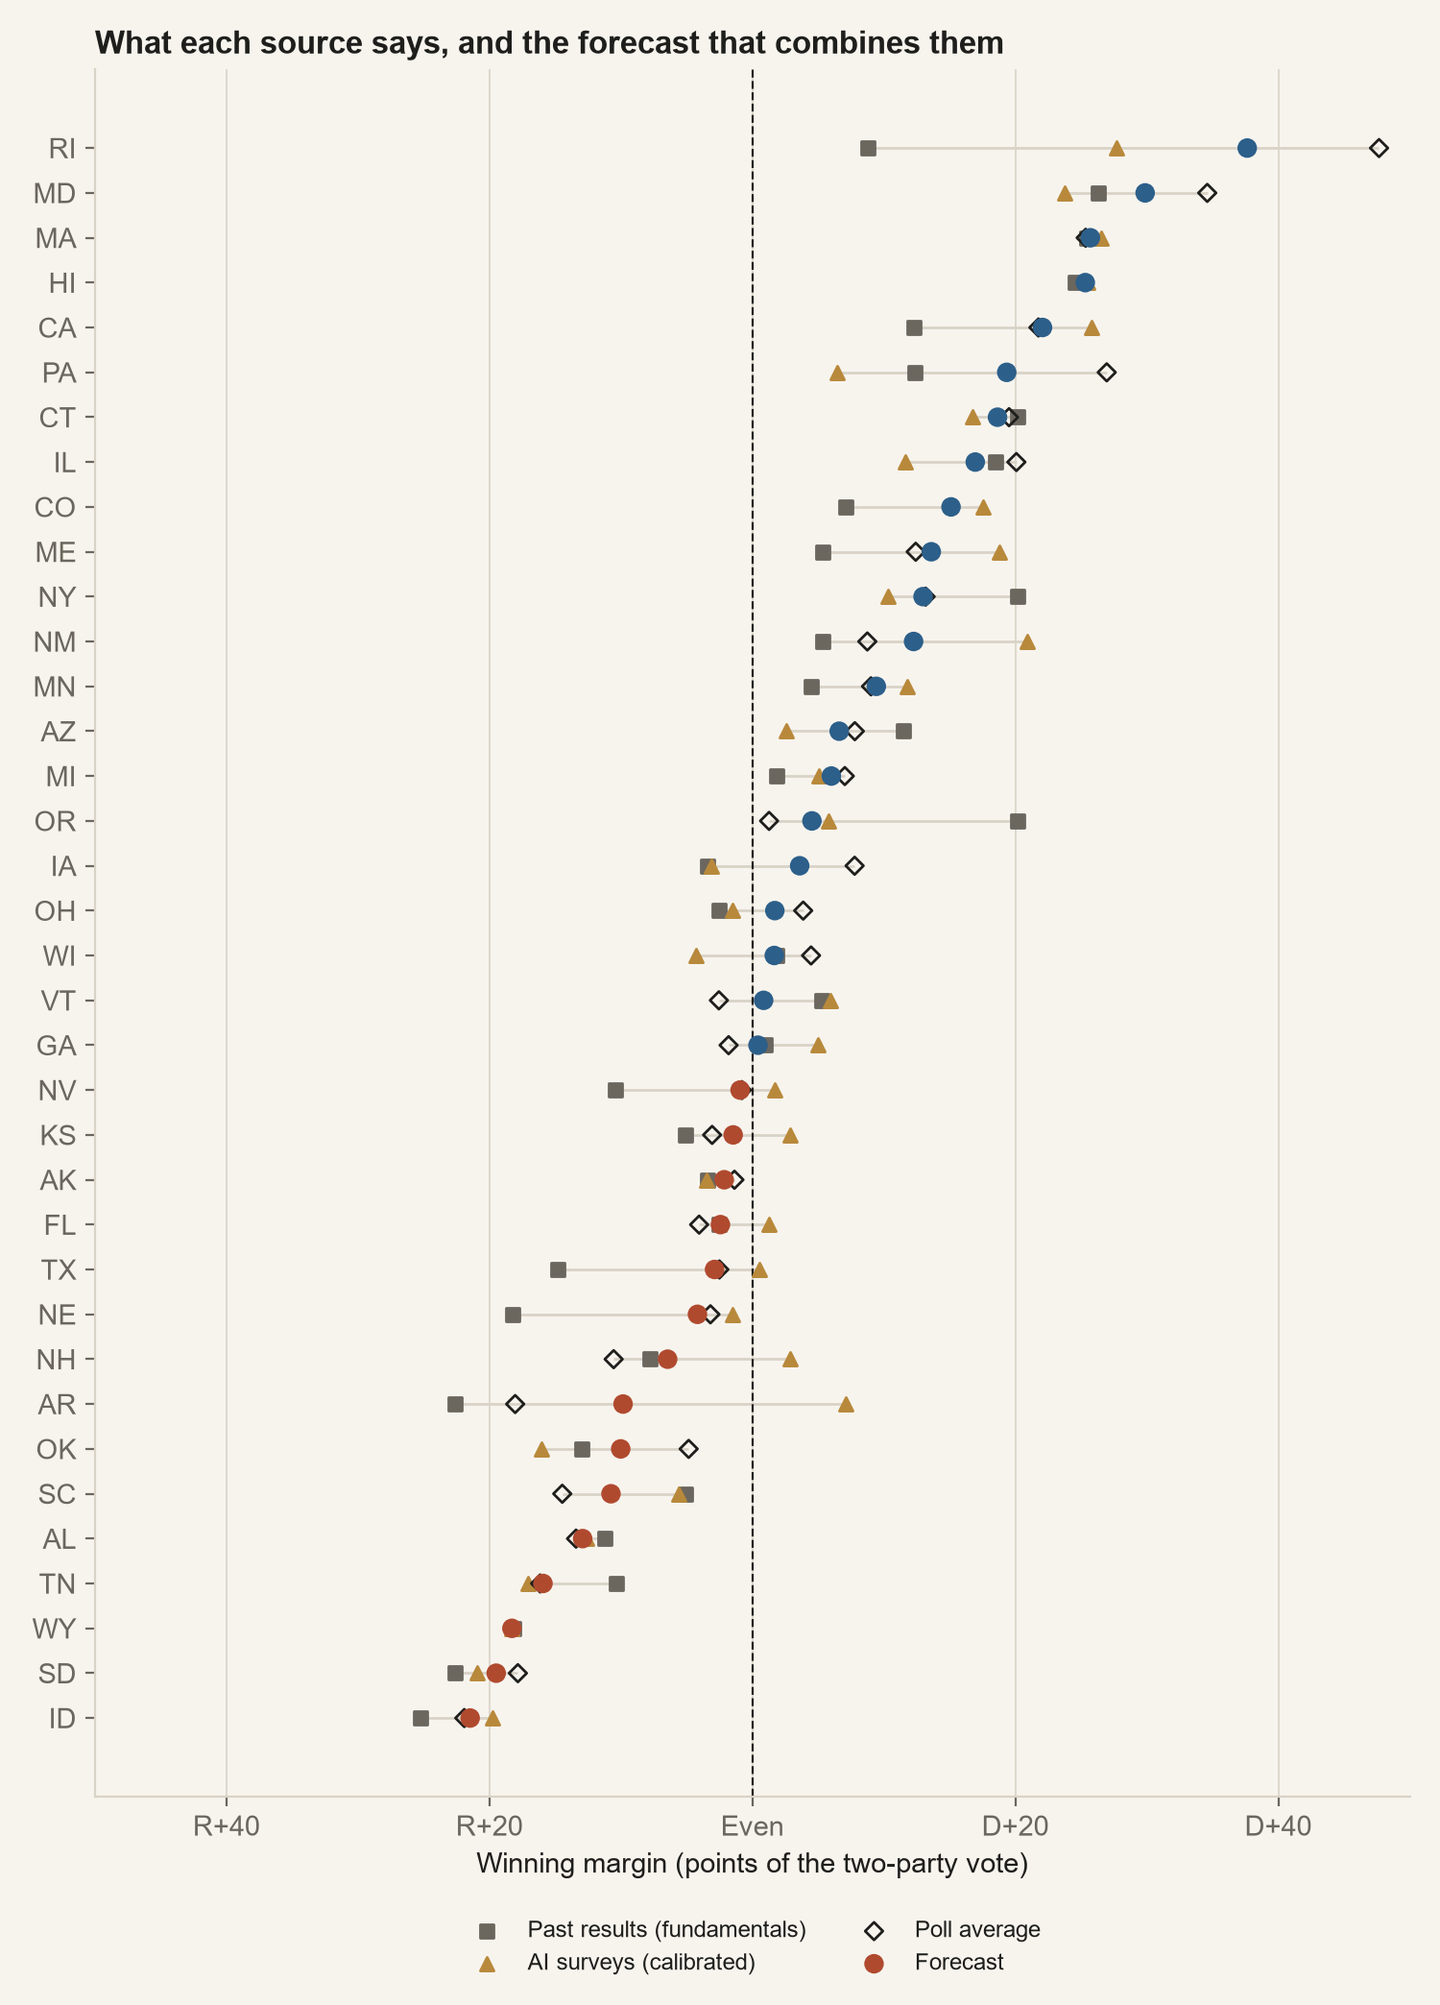
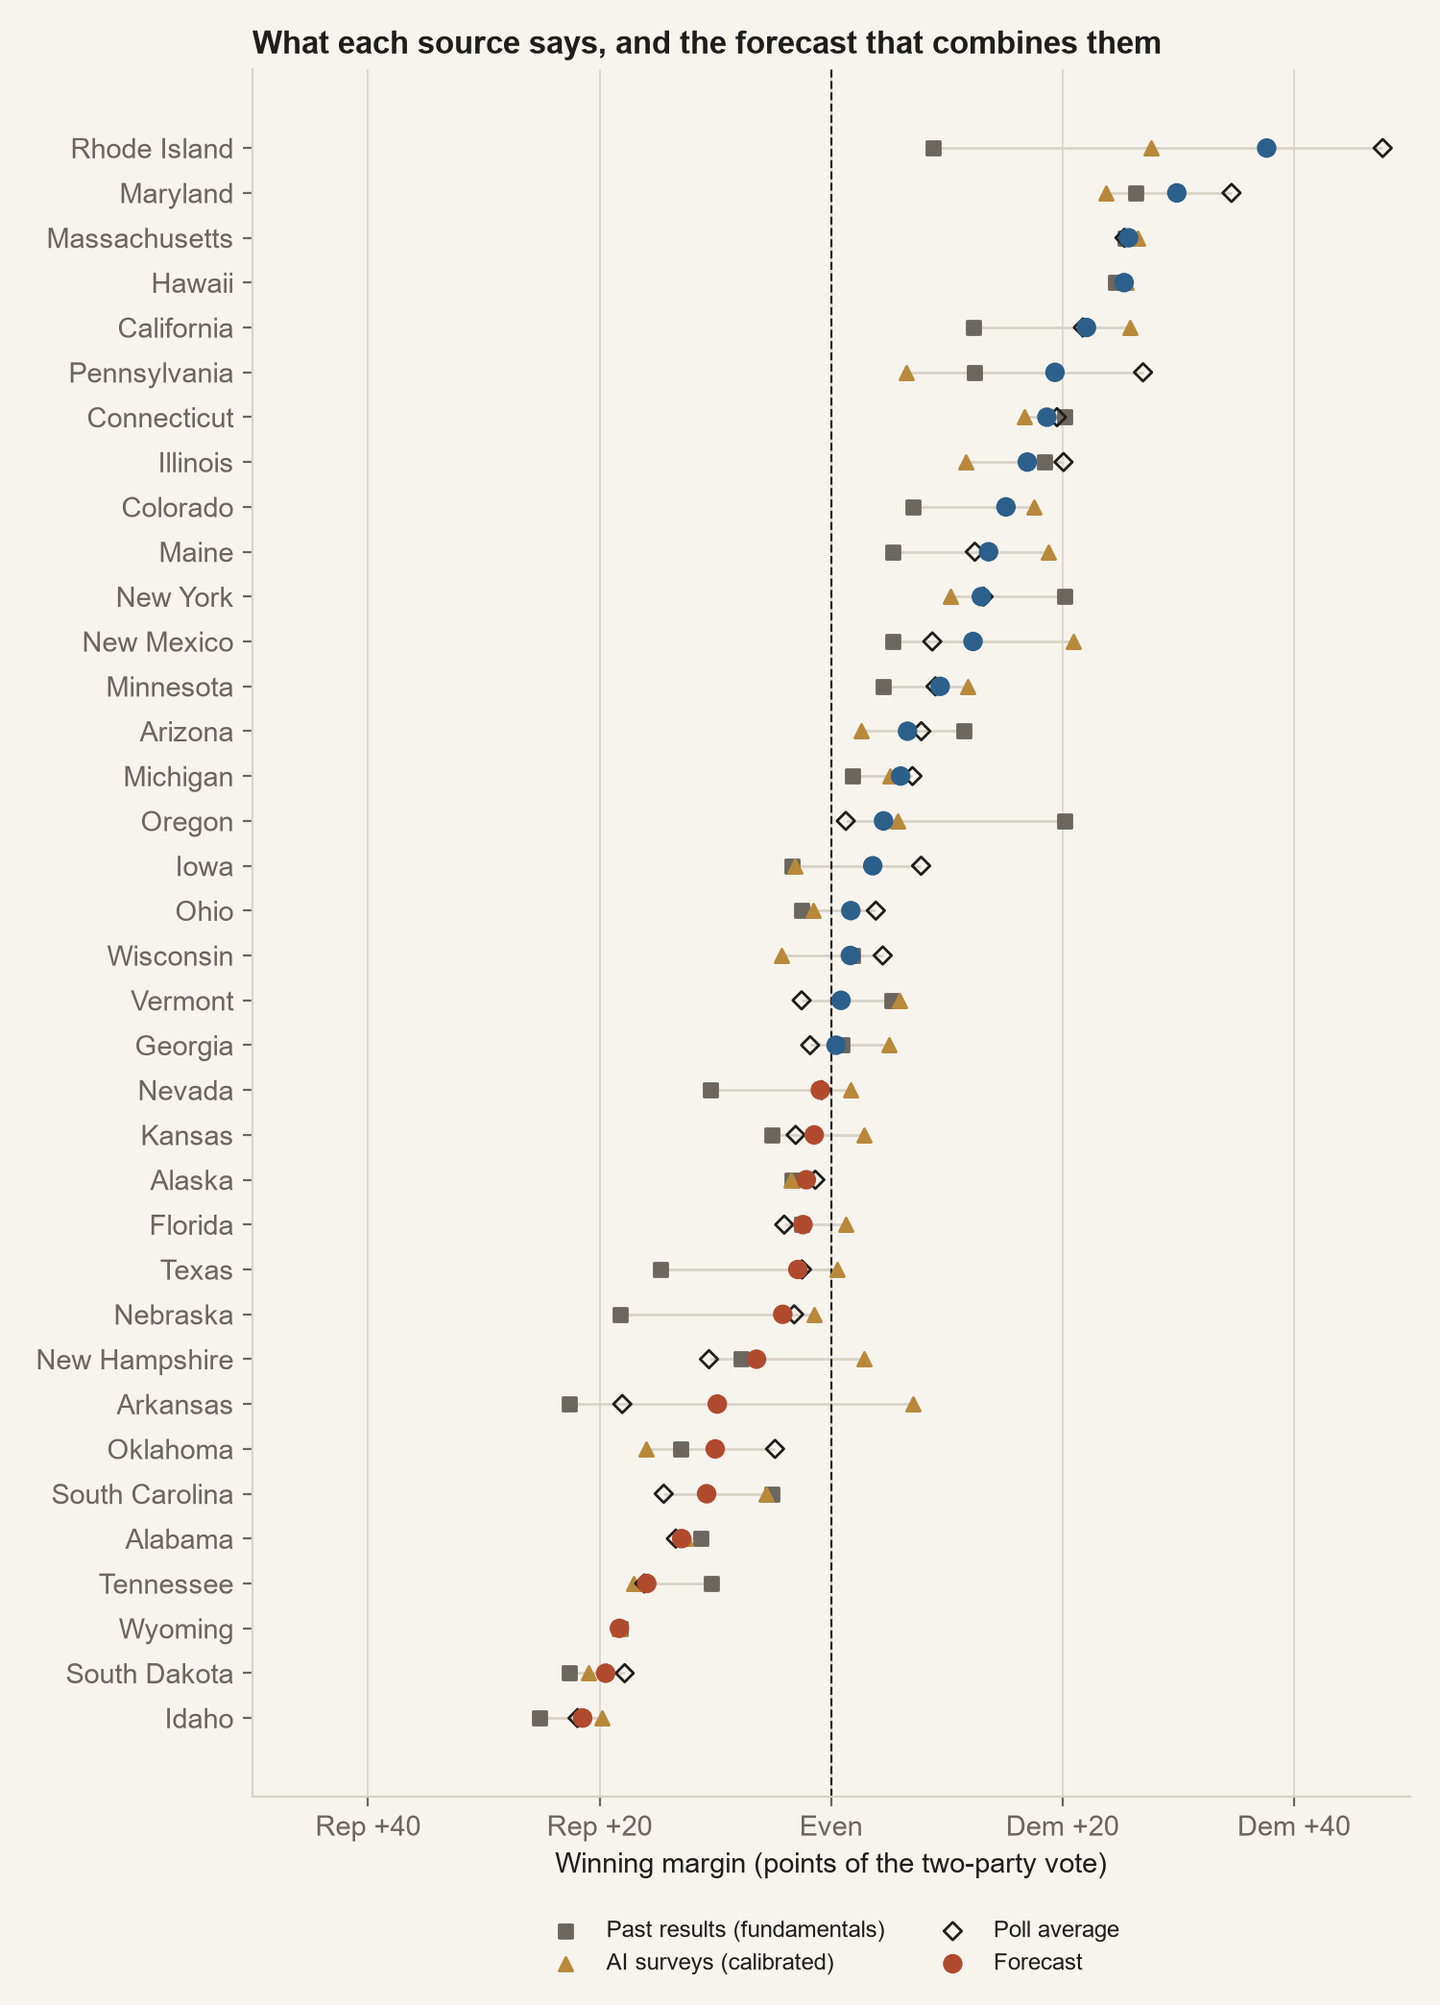
Map with real state outlines; full state and party names on every chart

diff --git a/scripts/07-plot_forecast.py b/scripts/07-plot_forecast.py
@@ -12,6 +12,8 @@ Inputs  : data/03-forecast/forecast.parquet, simulations.parquet   (05-forecast.
           with --llm-test: data/03-forecast-llm-test/forecast.parquet
 Outputs : other/charts/*.png
           with --llm-test: data/03-forecast-llm-test/charts/*.png (practice, not committed)
+Inputs  : also data/01-raw_data/us_states.geojson   state outlines (US Census, public domain;
+          downloaded once from PublicaMundi/MappingAPI on GitHub if missing)
 Notes   : Win-probability bands follow the map sketch: Solid > 90%, Likely 75-90%,
           Lean 60-75%, Toss-up 40-60%. Each state is one equal-sized tile, so small
           states are as visible as large ones. Grey tiles have no governor race in 2026.
@@ -28,7 +30,7 @@ matplotlib.use("Agg")
 import matplotlib.pyplot as plt  # noqa: E402
 import numpy as np  # noqa: E402
 import pandas as pd  # noqa: E402
-from matplotlib.patches import Patch, Rectangle  # noqa: E402
+from matplotlib.patches import Patch, Polygon, Rectangle  # noqa: E402
 from matplotlib.ticker import FuncFormatter  # noqa: E402
 
 ROOT = Path(__file__).resolve().parents[1]
@@ -37,9 +39,10 @@ ROOT = Path(__file__).resolve().parents[1]
 PAPER, INK, MUTED, RULE = "#F7F4EE", "#1E1E1C", "#6B665E", "#D9D3C7"
 DEM, REP, ACCENT = "#2C5F8A", "#B04A2F", "#B8893B"
 BANDS = [  # (lowest Democratic win probability, label, colour)
-    (0.90, "Solid D", "#1F4466"), (0.75, "Likely D", "#3F74A3"), (0.60, "Lean D", "#9CBDDB"),
-    (0.40, "Toss-up", "#D8B24E"), (0.25, "Lean R", "#E7A893"), (0.10, "Likely R", "#C2593F"),
-    (0.00, "Solid R", "#842C1B"),
+    (0.90, "Solid Democratic", "#1F4466"), (0.75, "Likely Democratic", "#3F74A3"),
+    (0.60, "Lean Democratic", "#9CBDDB"), (0.40, "Toss-up", "#D8B24E"),
+    (0.25, "Lean Republican", "#E7A893"), (0.10, "Likely Republican", "#C2593F"),
+    (0.00, "Solid Republican", "#842C1B"),
 ]
 NO_RACE = "#CFCAC0"
 OTHER = "#7B6D8D"  # an independent or minor-party candidate is favoured
@@ -57,6 +60,7 @@ ABBR = {
     "Virginia": "VA", "Washington": "WA", "West Virginia": "WV", "Wisconsin": "WI", "Wyoming": "WY",
     "Guam": "GU", "Northern Mariana Islands": "MP", "U.S. Virgin Islands": "VI",
 }
+FULL_NAME = {code: name for name, code in ABBR.items()}
 # Tile positions (column, row), row 0 at the top.
 TILES = {
     "AK": (0, 0), "ME": (11, 0), "VT": (10, 1), "NH": (11, 1),
@@ -90,7 +94,7 @@ def band(p: float) -> tuple[str, str]:
 def lean(m) -> str:
     """Margin in points (Democrat minus Republican) as text: D+5, R+12, Even."""
     m = float(m)
-    return "Even" if abs(m) < 0.5 else (f"D+{m:.0f}" if m > 0 else f"R+{-m:.0f}")
+    return "Even" if abs(m) < 0.5 else (f"Dem +{m:.0f}" if m > 0 else f"Rep +{-m:.0f}")
 
 
 LEAN_TICKS = FuncFormatter(lambda m, _: lean(m))
@@ -98,44 +102,147 @@ LEAN_TICKS = FuncFormatter(lambda m, _: lean(m))
 
 def tile(p_d: float, p_r: float, p_o: float) -> tuple[str, str, str]:
     """(band label, colour, tile text) for the favoured party, which can be an independent."""
-    party, p = max([("D", p_d), ("R", p_r), ("I", p_o)], key=lambda t: t[1])
-    if party == "I" and p >= 0.6:
-        return "Independent favoured", OTHER, f"I {p:.0%}"
+    party, p = max([("Dem", p_d), ("Rep", p_r), ("Ind", p_o)], key=lambda t: t[1])
+    if party == "Ind" and p >= 0.6:
+        return "Independent favoured", OTHER, f"{party} {p:.0%}"
     if p < 0.6:
         return "Toss-up", BANDS[3][2], f"{party} {p:.0%}"
-    label, colour = band(p_d if party == "D" else 1 - p_r)
+    label, colour = band(p_d if party == "Dem" else 1 - p_r)
     return label, colour, f"{party} {p:.0%}"
+
+
+# ---------------------------------------------------------------------------
+# Map with real state outlines
+# ---------------------------------------------------------------------------
+STATES_GEOJSON = ROOT / "data" / "01-raw_data" / "us_states.geojson"
+# US Census state outlines (public domain), simplified, as published by PublicaMundi/MappingAPI.
+STATES_URL = "https://raw.githubusercontent.com/PublicaMundi/MappingAPI/master/data/geojson/us-states.json"
+# Small north-eastern states are labelled in a column to the right, with a leader line.
+CALLOUTS = ["Maine", "Vermont", "New Hampshire", "Massachusetts", "Rhode Island", "Connecticut", "New Jersey",
+            "Delaware", "Maryland"]
+
+
+def load_outlines() -> dict:
+    """{state name: list of rings of (lon, lat)}; downloads the outlines once if they are missing."""
+    if not STATES_GEOJSON.exists():
+        import requests
+        STATES_GEOJSON.write_bytes(requests.get(STATES_URL, timeout=60).content)
+    shapes = {}
+    for feat in json.loads(STATES_GEOJSON.read_text())["features"]:
+        geom = feat["geometry"]
+        polys = geom["coordinates"] if geom["type"] == "MultiPolygon" else [geom["coordinates"]]
+        shapes[feat["properties"]["name"]] = [np.asarray(poly[0], float) for poly in polys]
+    return shapes
+
+
+def albers(lon, lat, lon0=-96.0, lat0=37.5, p1=29.5, p2=45.5):
+    """Albers equal-area conic projection (the usual one for US maps); returns x, y on a unit sphere."""
+    lon, lat = np.radians(lon), np.radians(lat)
+    lon0, lat0, p1, p2 = map(np.radians, (lon0, lat0, p1, p2))
+    n = (np.sin(p1) + np.sin(p2)) / 2
+    c = np.cos(p1) ** 2 + 2 * n * np.sin(p1)
+    rho0 = np.sqrt(c - 2 * n * np.sin(lat0)) / n
+    rho = np.sqrt(c - 2 * n * np.sin(lat)) / n
+    theta = n * (lon - lon0)
+    return rho * np.sin(theta), rho0 - rho * np.cos(theta)
+
+
+def project(name: str, ring: np.ndarray) -> np.ndarray:
+    """Lower 48 in the standard projection; Alaska and Hawaii moved to insets below, as on most US maps."""
+    lon, lat = ring[:, 0].copy(), ring[:, 1]
+    if name == "Alaska":
+        lon = np.where(lon > 0, lon - 360, lon)  # Aleutians that cross the date line
+        x, y = albers(lon, lat, lon0=-154, lat0=50, p1=55, p2=65)
+        return np.column_stack([0.35 * x - 0.30, 0.35 * y - 0.20])
+    if name == "Hawaii":
+        x, y = albers(lon, lat, lon0=-157, lat0=20, p1=8, p2=18)
+        return np.column_stack([x - 0.10, y - 0.21])
+    x, y = albers(lon, lat)
+    return np.column_stack([x, y])
+
+
+def label_point(rings: list) -> tuple[float, float]:
+    """Area-weighted centre of a state's largest piece."""
+    def area_centroid(r):
+        x, y = r[:, 0], r[:, 1]
+        cross = x[:-1] * y[1:] - x[1:] * y[:-1]
+        a = cross.sum() / 2
+        if abs(a) < 1e-12:
+            return 0.0, x.mean(), y.mean()
+        return abs(a), ((x[:-1] + x[1:]) * cross).sum() / (6 * a), ((y[:-1] + y[1:]) * cross).sum() / (6 * a)
+    a, cx, cy = max(area_centroid(r) for r in rings)
+    return cx, cy
+
+
+# Nudges (in map units) where the centre of a state is not the best place for its name.
+LABEL_NUDGE = {"Florida": (0.012, -0.012), "Louisiana": (-0.008, 0.0), "Michigan": (0.002, -0.014),
+               "Idaho": (0.0, -0.02), "California": (-0.008, 0.0), "Kentucky": (0.006, 0.0),
+               "West Virginia": (-0.004, -0.002), "Virginia": (0.008, -0.003), "Minnesota": (0.0, -0.01),
+               "Oklahoma": (0.01, -0.004), "Illinois": (-0.004, 0.0), "Indiana": (0.003, 0.012),
+               "Mississippi": (-0.003, -0.024), "Alabama": (0.002, -0.006), "South Carolina": (0.003, -0.002),
+               "Tennessee": (0.004, 0.0)}
+# States labelled beside their shape rather than inside it (Hawaii's islands are too small).
+LABEL_BESIDE = {"Hawaii": (0.035, 0.012)}
 
 
 def forecast_map(f: pd.DataFrame, out: Path, note: str):
     p_r = f["p_rep_win"] if "p_rep_win" in f else 1 - f["p_dem_win"]
     p_o = f["p_other_win"] if "p_other_win" in f else 0 * f["p_dem_win"]
-    probs = {ABBR[race]: (d, r, o) for race, d, r, o in zip(f["race"], f["p_dem_win"], p_r, p_o)}
-    fig, ax = plt.subplots(figsize=(8, 6.4))
-    for code, (c, r) in TILES.items():
-        if code in probs:
-            label, colour, fav = tile(*probs[code])
-        else:
-            label, colour = "No race", NO_RACE
-        ax.add_patch(Rectangle((c, -r), 0.92, 0.92, facecolor=colour, edgecolor=PAPER))
-        dark = label in {"Solid D", "Likely D", "Likely R", "Solid R", "Independent favoured"}
-        ax.text(c + 0.46, -r + 0.56, code, ha="center", va="center", fontsize=10, weight="semibold",
-                color="white" if dark else INK)
-        if code in probs:
-            ax.text(c + 0.46, -r + 0.24, fav, ha="center", va="center", fontsize=6.8,
-                    color="white" if dark else INK)
-    ax.set_xlim(-0.2, 12.1)
-    ax.set_ylim(-7.3, 1.1)
+    probs = {race: (d, r, o) for race, d, r, o in zip(f["race"], f["p_dem_win"], p_r, p_o)}
+    shapes = {name: [project(name, r) for r in rings] for name, rings in load_outlines().items()
+              if name in ABBR and name not in {"Guam", "Northern Mariana Islands", "U.S. Virgin Islands"}}
+
+    fig, ax = plt.subplots(figsize=(12, 8.2))
+    dark_bands = {"Solid Democratic", "Likely Democratic", "Likely Republican", "Solid Republican",
+                  "Independent favoured"}
+    for name, rings in shapes.items():
+        label, colour, fav = tile(*probs[name]) if name in probs else ("No race", NO_RACE, "")
+        for ring in rings:
+            ax.add_patch(Polygon(ring, closed=True, facecolor=colour, edgecolor=PAPER, linewidth=0.8))
+        dark = label in dark_bands
+        if name in CALLOUTS:
+            continue
+        x, y = label_point(rings)
+        dx, dy = LABEL_NUDGE.get(name, (0, 0))
+        if name in LABEL_BESIDE:
+            bx, by = LABEL_BESIDE[name]
+            ax.text(x + bx, y + by, f"{name}\n{fav}" if fav else name, ha="left", va="center", fontsize=7,
+                    weight="semibold", color=INK)
+            continue
+        text = name.replace(" ", "\n", 1) if name in {"North Dakota", "South Dakota", "North Carolina",
+                                                       "South Carolina", "New Mexico", "West Virginia"} else name
+        ax.text(x + dx, y + dy + (0.006 if fav else 0), text, ha="center", va="center", fontsize=7 if fav else 6,
+                weight="semibold", linespacing=0.9, color="white" if dark else (INK if fav else MUTED))
+        if fav:
+            ax.text(x + dx, y + dy - (0.017 if "\n" in text else 0.01), fav, ha="center", va="center",
+                    fontsize=6.5, color="white" if dark else INK)
+
+    # North-eastern states too small to hold a name: a labelled column on the right.
+    xr = max(r[:, 0].max() for rings in shapes.values() for r in rings) + 0.035
+    ys = sorted(((label_point(shapes[n])[1], n) for n in CALLOUTS if n in shapes), reverse=True)
+    step = 0.03
+    top = ys[0][0] + 0.03
+    for i, (_, name) in enumerate(ys):
+        x0, y0 = label_point(shapes[name])
+        ty = top - i * step
+        label, colour, fav = tile(*probs[name]) if name in probs else ("No race", NO_RACE, "")
+        ax.plot([x0, xr - 0.006], [y0, ty], color=MUTED, linewidth=0.5)
+        ax.add_patch(Rectangle((xr - 0.004, ty - 0.008), 0.016, 0.016, facecolor=colour, edgecolor=PAPER))
+        ax.text(xr + 0.018, ty, f"{name}  {fav}" if fav else f"{name}  (no race)", va="center", fontsize=7.5,
+                color=INK if fav else MUTED, weight="semibold" if fav else "normal")
+
     ax.set_aspect("equal")
+    ax.autoscale_view()
     ax.axis("off")
     handles = [Patch(facecolor=c, label=lab) for _, lab, c in BANDS] + [Patch(facecolor=NO_RACE, label="No race")]
     if any(tile(*v)[0] == "Independent favoured" for v in probs.values()):
         handles.append(Patch(facecolor=OTHER, label="Independent favoured"))
-    ax.legend(handles=handles, loc="upper left", bbox_to_anchor=(0, 0), ncol=4, frameon=False, fontsize=9,
-              title="Each tile: the favoured candidate's party (D, R or I = independent) and its chance of winning.\n"
+    ax.legend(handles=handles, loc="upper left", bbox_to_anchor=(0, 0), ncol=4, frameon=False, fontsize=11,
+              title="Each state: its name, then the favoured candidate's party (Dem = Democratic, Rep = Republican,\n"
+                    "Ind = independent) and its chance of winning. "
                     "Solid > 90%, Likely 75-90%, Lean 60-75%, Toss-up: no one above 60%. "
                     "Plurality wins; Georgia needs a majority or goes to a runoff.",
-              title_fontsize=8, alignment="left")
+              title_fontsize=10, alignment="left")
     ax.set_title("Which party is favoured in each governor's race" + note)
     fig.savefig(out / "forecast_map.png", dpi=200, bbox_inches="tight")
     plt.close(fig)
@@ -154,7 +261,7 @@ def race_intervals(f: pd.DataFrame, out: Path, note: str):
     lim = np.ceil(max(abs(m("dem_share_lo95")).max(), abs(m("dem_share_hi95")).max()) / 10) * 10
     ax.set_xlim(-lim, lim)
     ax.xaxis.set_major_formatter(LEAN_TICKS)
-    ax.set_yticks(y, f["race"].map(ABBR))
+    ax.set_yticks(y, f["race"])
     ax.set_xlabel("Forecast winning margin (points of the two-party vote)")
     ax.text(0.01, 1.005, "Republican ahead", transform=ax.transAxes, color=REP, fontsize=9, va="bottom")
     ax.text(0.99, 1.005, "Democrat ahead", transform=ax.transAxes, color=DEM, fontsize=9, va="bottom", ha="right")
@@ -165,6 +272,46 @@ def race_intervals(f: pd.DataFrame, out: Path, note: str):
     fig.tight_layout()
     fig.savefig(out / "race_intervals.png", dpi=200)
     plt.close(fig)
+
+
+def place_labels(ax, xs, ys, names, fontsize=7):
+    """Write a full name beside each point without names overlapping each other or the points:
+    try positions around the point, nearest first, and draw a thin leader line when a name
+    has to sit further away."""
+    fig = ax.figure
+    fig.canvas.draw()
+    renderer = fig.canvas.get_renderer()
+    to_px = ax.transData.transform
+    dots = [to_px((x, y)) for x, y in zip(xs, ys)]
+    dot_boxes = [(px - 5, py - 5, px + 5, py + 5) for px, py in dots]
+    placed = []
+    near = [(5, 3, "left", "bottom"), (5, -3, "left", "top"), (-5, 3, "right", "bottom"),
+            (-5, -3, "right", "top"), (0, 7, "center", "bottom"), (0, -7, "center", "top")]
+    far = [(dx * k, dy * k, ha, va) for k in (2.2, 3.4, 4.6) for dx, dy, ha, va in near]
+
+    def overlaps(box):
+        return any(not (box[2] < b[0] or box[0] > b[2] or box[3] < b[1] or box[1] > b[3])
+                   for b in placed + dot_boxes)
+
+    order = sorted(range(len(names)), key=lambda i: -sum(abs(dots[i][0] - d[0]) < 60 and abs(dots[i][1] - d[1]) < 30
+                                                          for d in dots))
+    for i in order:
+        for dx, dy, ha, va in near + far:
+            t = ax.annotate(names[i], (xs[i], ys[i]), xytext=(dx, dy), textcoords="offset points",
+                            fontsize=fontsize, ha=ha, va=va, color=INK)
+            bb = t.get_window_extent(renderer)
+            box = (bb.x0 - 1, bb.y0 - 1, bb.x1 + 1, bb.y1 + 1)
+            if not overlaps(box):
+                if (dx, dy, ha, va) in far:
+                    t.remove()
+                    t = ax.annotate(names[i], (xs[i], ys[i]), xytext=(dx, dy), textcoords="offset points",
+                                    fontsize=fontsize, ha=ha, va=va, color=INK,
+                                    arrowprops=dict(arrowstyle="-", color=MUTED, linewidth=0.5, shrinkA=0, shrinkB=3))
+                placed.append(box)
+                break
+            t.remove()
+        else:  # nowhere free: keep the nearest position
+            ax.annotate(names[i], (xs[i], ys[i]), xytext=(5, 3), textcoords="offset points", fontsize=fontsize, color=INK)
 
 
 def silicon_vs_polls(f: pd.DataFrame, out: Path, note: str):
@@ -179,8 +326,10 @@ def silicon_vs_polls(f: pd.DataFrame, out: Path, note: str):
         ax.axhline(0, color=RULE, linewidth=0.8)
         ax.axvline(0, color=RULE, linewidth=0.8)
         ax.scatter(x, y, s=36, color=ACCENT, zorder=3)
-        for xi, yi, code in zip(x, y, p["race"].map(ABBR)):
-            ax.annotate(code, (xi, yi), xytext=(4, 4), textcoords="offset points", fontsize=8.5)
+        ax.set_xlim(-lim, lim)
+        ax.set_ylim(-lim, lim)
+        ax.set_aspect("equal")
+        place_labels(ax, x, y, list(p["race"]), fontsize=7)
         if CAL and CAL.get("calibration_slope"):
             a_, b_ = CAL["calibration_intercept"], CAL["calibration_slope"]
             xs = np.array([-lim, lim])
@@ -223,7 +372,7 @@ def sources(f: pd.DataFrame, out: Path, note: str):
     lim = np.ceil(np.nanmax(np.abs(f[["fund_margin", "silicon_margin_corrected", "poll_margin"]].to_numpy())) / 10) * 10
     ax.set_xlim(-lim, lim)
     ax.xaxis.set_major_formatter(LEAN_TICKS)
-    ax.set_yticks(y, f["race"].map(ABBR))
+    ax.set_yticks(y, f["race"])
     ax.set_xlabel("Winning margin (points of the two-party vote)")
     ax.legend(loc="upper center", bbox_to_anchor=(0.5, -0.06), ncol=2, frameon=False, fontsize=8.5)
     ax.set_title("What each source says, and the forecast that combines them" + note)
